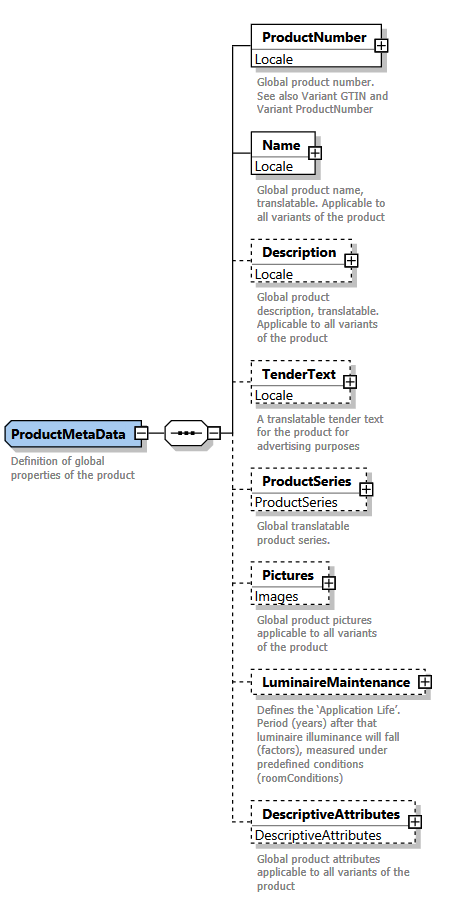
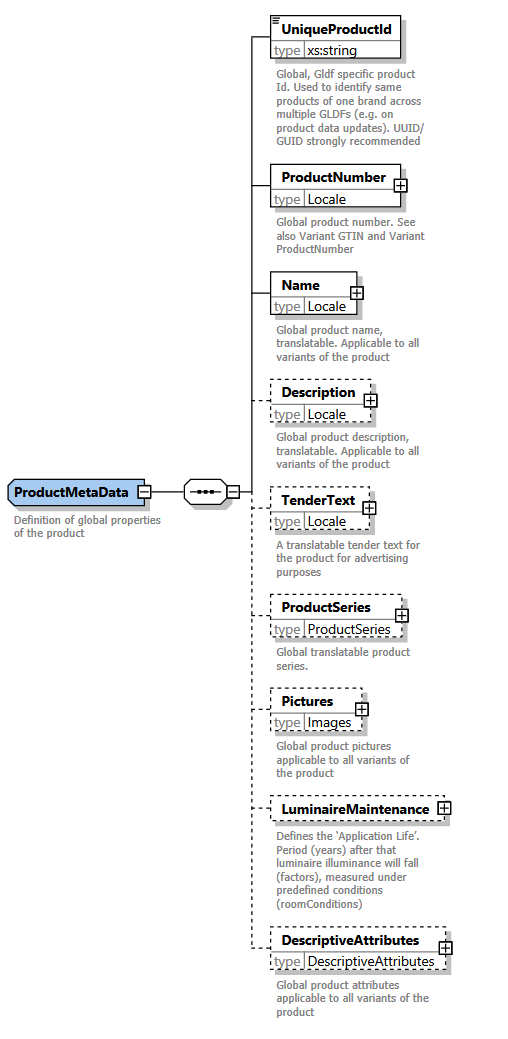
Update website to gldf 1.0 rc2

Changed region(s): [[0.0, 0.0, 0.9214, 1.0]]

diff --git a/docs/structure/product.md b/docs/structure/product.md
@@ -37,11 +37,11 @@ Most **marketing information** are **optional**. However, the more are specified
 
 ### `ProductMetaData` XSD description
 
-<img src="/img/docs/structure/product-xsd-metadata.webp" alt="ProductDefinitions in XSD" width="370" />
+<img src="/img/docs/structure/product-xsd-metadata.webp" alt="ProductDefinitions in XSD" width="400" />
 
 ### XML example
 
-`ProductMetaData` is a relatively straightforward element and in its simplest form only requires two mandatory fields: The **product number** and the **product name** in one language (preferably English):
+`ProductMetaData` is a relatively straightforward element and in its simplest form only requires three mandatory fields: An **unique product id**, the **product number** and the **product name** in one language (preferably English):
 
 ```xml {10-17} showLineNumbers
 <?xml version="1.0" encoding="UTF-8"?>
@@ -54,6 +54,7 @@ Most **marketing information** are **optional**. However, the more are specified
   </GeneralDefinitions>
   <ProductDefinitions>
     <ProductMetaData>
+      <UniqueProductId>e1da63af-6e41-45ff-927b-d66f91d6b447</UniqueProductId>
       <ProductNumber>
         <Locale language="en">1234-AB</Locale>
       </ProductNumber>
@@ -68,6 +69,14 @@ Most **marketing information** are **optional**. However, the more are specified
 </Root>
 ```
 
+:::tip Unique Product Id
+The element `UniqueProductId` is particularly important, as it makes it possible to recognise the same (updated) product across multiple GLDF files. You could use the product's article number, GTIN or EAN for it, but we **recommend UUIDs (GUIDs)** related only for this use case, since all other values could change over time.
+
+**See also [Unique IDs](/getting-started#unique-ids)**
+:::
+
+---
+
 A complete example, on the other hand, could look as follows. In general, it is recommended to provide as much information about the product as possible:
 
 ```xml {10-57} showLineNumbers
@@ -81,6 +90,7 @@ A complete example, on the other hand, could look as follows. In general, it is 
   </GeneralDefinitions>
   <ProductDefinitions>
     <ProductMetaData>
+      <UniqueProductId>e1da63af-6e41-45ff-927b-d66f91d6b447</UniqueProductId>
       <ProductNumber>
         <Locale language="en">1234-AB</Locale>
       </ProductNumber>
@@ -97,13 +107,13 @@ A complete example, on the other hand, could look as follows. In general, it is 
         <Locale language="de">Unser Verkaufsschlager, Gewinner des Red Dot Awards</Locale>
       </TenderText>
       <ProductSeries>
-        <ProductSerie>
+        <ProductSerie id="familyXY">
           <Name>
             <Locale language="en">Product family XY</Locale>
             <Locale language="de">Produktfamilie XY</Locale>
           </Name>
         </ProductSerie>
-        <ProductSerie>
+        <ProductSerie id="familyYZ">
           <Name>
             <Locale language="en">Our series YZ</Locale>
             <Locale language="de">Unsere Serie YZ</Locale>
@@ -171,6 +181,7 @@ The luminaire maintenance according to **CIE 97** is indicated by **specifying a
   </GeneralDefinitions>
   <ProductDefinitions>
     <ProductMetaData>
+      <UniqueProductId>e1da63af-6e41-45ff-927b-d66f91d6b447</UniqueProductId>
       <ProductNumber>
         <Locale language="en">42</Locale>
       </ProductNumber>
@@ -203,6 +214,7 @@ Luminaire maintenance acording to **CIE LMF** allows the specification of a **ma
   </GeneralDefinitions>
   <ProductDefinitions>
     <ProductMetaData>
+      <UniqueProductId>e1da63af-6e41-45ff-927b-d66f91d6b447</UniqueProductId>
       <ProductNumber>
         <Locale language="en">42</Locale>
       </ProductNumber>
@@ -244,6 +256,7 @@ Luminaire maintenance acording to **IES LLF** is similar to CIE LMF. Its again t
   </GeneralDefinitions>
   <ProductDefinitions>
     <ProductMetaData>
+      <UniqueProductId>e1da63af-6e41-45ff-927b-d66f91d6b447</UniqueProductId>
       <ProductNumber>
         <Locale language="en">42</Locale>
       </ProductNumber>
@@ -287,6 +300,7 @@ The Japanese standard **Jieg-001** does not differ greatly from CIE and IES. Onc
   </GeneralDefinitions>
   <ProductDefinitions>
     <ProductMetaData>
+      <UniqueProductId>e1da63af-6e41-45ff-927b-d66f91d6b447</UniqueProductId>
       <ProductNumber>
         <Locale language="en">42</Locale>
       </ProductNumber>
@@ -336,6 +350,7 @@ The **recommended** procedure is to first define all relevant properties on `Pro
   </GeneralDefinitions>
   <ProductDefinitions>
     <ProductMetaData>
+      <UniqueProductId>e1da63af-6e41-45ff-927b-d66f91d6b447</UniqueProductId>
       <ProductNumber>
         <Locale language="en">42</Locale>
       </ProductNumber>

diff --git a/src/pages/getting-started.md b/src/pages/getting-started.md
@@ -82,35 +82,55 @@ If you would like to test it out right away, copy and paste this XML of a minima
 
 ```xml showLineNumbers
 <?xml version="1.0" encoding="UTF-8"?>
-<Root xmlns:xsi="http://www.w3.org/2001/XMLSchema-instance" 
-      xsi:noNamespaceSchemaLocation="https://gldf.io/xsd/gldf/gldf.xsd">
+<Root xmlns:xsi="http://www.w3.org/2001/XMLSchema-instance"
+    xsi:noNamespaceSchemaLocation="https://gldf.io/xsd/gldf/gldf.xsd">
   <Header>
     <Manufacturer>GlobalLightingData</Manufacturer>
-    <CreationTimeCode>2022-11-30T09:00:00</CreationTimeCode>
+    <FormatVersion major="1" minor="0" pre-release="2" />
     <CreatedWithApplication>Visual Studio Code</CreatedWithApplication>
-    <FormatVersion>1.0.0-rc.1</FormatVersion>
+    <GldfCreationTimeCode>2023-03-29T14:30:00Z</GldfCreationTimeCode>
+    <UniqueGldfId>e19ed73e-fcd6-4469-a359-58fd80510e9c</UniqueGldfId>
   </Header>
   <GeneralDefinitions>
   </GeneralDefinitions>
   <ProductDefinitions>
     <ProductMetaData>
-        <ProductNumber>
-            <Locale language="en">42</Locale>
-        </ProductNumber>
-        <Name>
-            <Locale language="en">Example Luminaire</Locale>
-        </Name>
+      <UniqueProductId>e1da63af-6e41-45ff-927b-d66f91d6b447</UniqueProductId>
+      <ProductNumber>
+        <Locale language="en">42</Locale>
+      </ProductNumber>
+      <Name>
+        <Locale language="en">Example Luminaire</Locale>
+      </Name>
     </ProductMetaData>
     <Variants>
-        <Variant id="variant-1">
-            <Name>
-                <Locale language="en">Example Luminaire Variant 1</Locale>
-            </Name>
-        </Variant>
+      <Variant id="variant-1">
+        <Name>
+          <Locale language="en">Example Luminaire Variant 1</Locale>
+        </Name>
+      </Variant>
     </Variants>
   </ProductDefinitions>
 </Root>
 ```
+
+### Unique IDs
+
+As you can see in the example above, there are two uniqe IDs in each GLDF. Since they are important mandatory elements, they shall be explained at this point as well:
+
+:::tip
+
+Each GLDF must have 2 unique IDs. The difference between `UniqueGldfId` and `UniqueProductId` is the following:
+
+- `UniqueGldfId`  
+  Should **always** be unique. Every GLDF file should have a **worldwide-unique** `UniqueGldfId`, so UUIDs (GUIDs) are **strongly recommended**. This is supposed to help recognise same GLDF data in an easy way.
+- `UniqueProductId`  
+  On the other hand, the `UniqueProductId` should **be unique only across different products** (at least for the same manufacturer). So they can be equal in different GLDF files - and should be, if they depict the same product.
+  
+  This is supposed to help to **recognise same products of a manufacturer across different GLDF files** - for example in case of product data updates. You could use the product's article number, GTIN or EAN for this use case - but we recommend UUIDs here as well.
+
+Worldwide unique UUIDs can be generated for example here: [guidgenerator.com](https://guidgenerator.com)
+:::
 
 ---
 

diff --git a/docs/structure/variant.md b/docs/structure/variant.md
@@ -133,7 +133,7 @@ The following is a complete example of a `Variant` with many optional elements. 
           <EmitterReference emitterId="emitter1_Narrow" />
         </Geometry>
         <ProductSeries>
-          <ProductSerie>
+          <ProductSerie id="ceilingLuminaires">
             <Name>
               <Locale language="en">Ceiling luminaires</Locale>
             </Name>
@@ -192,7 +192,7 @@ Contains child elements to reference the `GlobalDefinitions` parts [`Geometry`](
 
 ### `ProductSeries` (optional)
 
-Product series applicable to a single variant of the product. Overwrites the `ProductSeries` element of [`ProductMetaData`](/docs/structure/product.md)
+Product series applicable to a single variant of the product. Overwrites the `ProductSeries` element of [`ProductMetaData`](/docs/structure/product.md). The `id` attribute must be unique for different product series. But equal across different GLDF files for the same product series.
 
 ### `Pictures` (optional)
 
